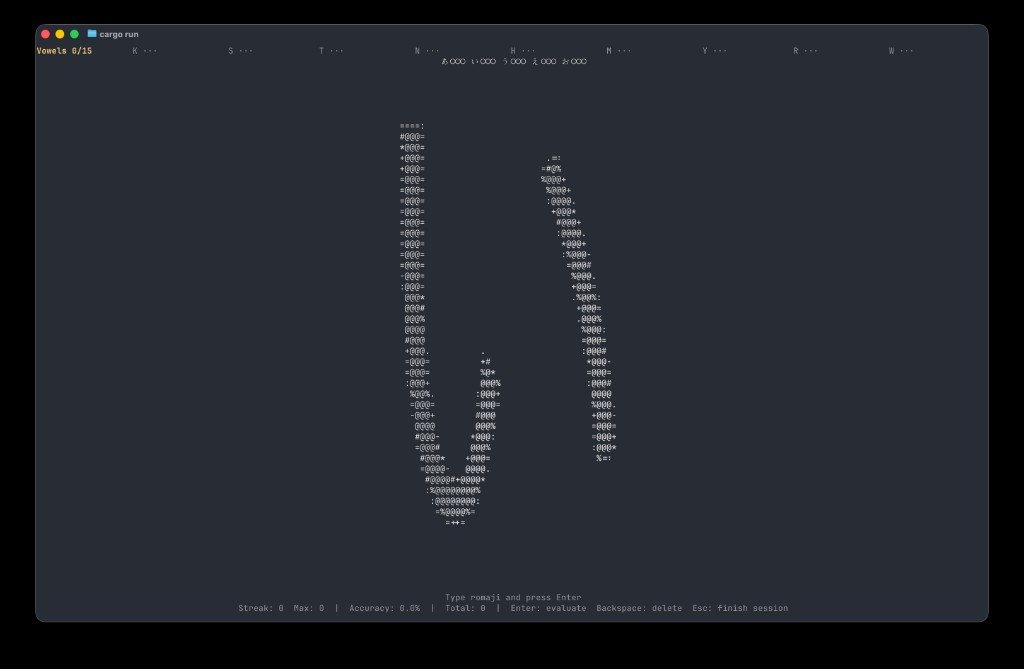
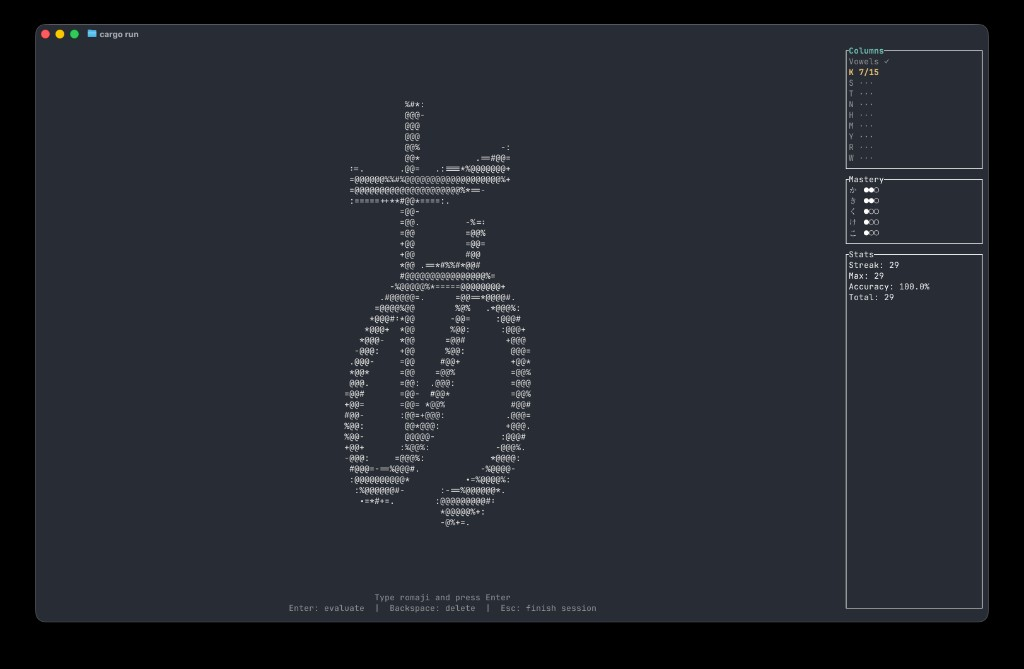
Move in-game stats to a right sidebar.
This centralizes progressive and session metrics in a vertical panel across all game modes, and updates docs/screenshot to reflect the new layout.

Made-with: Cursor

diff --git a/src/ui.rs b/src/ui.rs
@@ -2,7 +2,7 @@ use std::sync::OnceLock;
 
 use fontdue::Font;
 use ratatui::Frame;
-use ratatui::layout::{Alignment, Constraint, Direction, Layout};
+use ratatui::layout::{Alignment, Constraint, Direction, Layout, Rect};
 use ratatui::style::{Color, Modifier, Style};
 use ratatui::symbols::Marker;
 use ratatui::text::{Line, Span};
@@ -520,43 +520,169 @@ fn render_column_options(frame: &mut Frame, app: &App) {
     );
 }
 
+const STATS_SIDEBAR_WIDTH: u16 = 28;
+
+fn render_stats_sidebar(frame: &mut Frame, app: &App, area: Rect) {
+    match app.mode {
+        GameMode::Progressive => {
+            let parts = Layout::default()
+                .direction(Direction::Vertical)
+                .constraints([
+                    Constraint::Length(12),
+                    Constraint::Length(7),
+                    Constraint::Min(6),
+                ])
+                .split(area);
+
+            let column_lines: Vec<Line> = (0..COLUMN_LABELS.len())
+                .map(|column| {
+                    let total = (COLUMN_INDEX_GROUPS[column].len() * 3) as u32;
+                    let progress = app.column_progress(column);
+                    let text = if app.is_column_mastered(column) {
+                        format!("{} ✓", COLUMN_LABELS[column])
+                    } else if column == app.progressive_unlocked_columns.saturating_sub(1) {
+                        format!("{} {}/{}", COLUMN_LABELS[column], progress, total)
+                    } else if column < app.progressive_unlocked_columns {
+                        format!("{} ..", COLUMN_LABELS[column])
+                    } else {
+                        format!("{} ···", COLUMN_LABELS[column])
+                    };
+                    let style = if column == app.progressive_unlocked_columns.saturating_sub(1) {
+                        Style::default()
+                            .fg(Color::Yellow)
+                            .add_modifier(Modifier::BOLD)
+                    } else {
+                        Style::default().add_modifier(Modifier::DIM)
+                    };
+                    Line::from(Span::styled(text, style))
+                })
+                .collect();
+            frame.render_widget(
+                Paragraph::new(column_lines)
+                    .alignment(Alignment::Left)
+                    .block(
+                        Block::default()
+                            .borders(Borders::ALL)
+                            .title("Columns")
+                            .title_style(
+                                Style::default()
+                                    .fg(Color::LightCyan)
+                                    .add_modifier(Modifier::BOLD),
+                            ),
+                    ),
+                parts[0],
+            );
+
+            let active_column = app.progressive_unlocked_columns.saturating_sub(1);
+            let mastery_lines: Vec<Line> = COLUMN_INDEX_GROUPS[active_column]
+                .iter()
+                .map(|index| {
+                    let (kana, _) = HIRAGANA_BASIC_46[*index];
+                    let dots = (0..3)
+                        .map(|dot| {
+                            if dot < app.kana_correct_counts[*index].min(3) as usize {
+                                "●"
+                            } else {
+                                "○"
+                            }
+                        })
+                        .collect::<Vec<_>>()
+                        .join("");
+                    Line::from(format!("{kana} {dots}"))
+                })
+                .collect();
+            frame.render_widget(
+                Paragraph::new(mastery_lines)
+                    .alignment(Alignment::Left)
+                    .block(Block::default().borders(Borders::ALL).title("Mastery")),
+                parts[1],
+            );
+
+            let total = app.correct + app.incorrect;
+            let stats_text = vec![
+                Line::from(format!("Streak: {}", app.streak)),
+                Line::from(format!("Max: {}", app.max_streak)),
+                Line::from(format!("Accuracy: {:.1}%", app.accuracy())),
+                Line::from(format!("Total: {total}")),
+            ];
+            frame.render_widget(
+                Paragraph::new(stats_text)
+                    .alignment(Alignment::Left)
+                    .block(Block::default().borders(Borders::ALL).title("Stats")),
+                parts[2],
+            );
+        }
+        GameMode::BestOf(limit) => {
+            let answered = app.correct + app.incorrect;
+            let lines = vec![
+                Line::from(format!("Mode: Best of {limit}")),
+                Line::from(format!(
+                    "Time: {}",
+                    format_elapsed(app.session_elapsed_secs)
+                )),
+                Line::from(format!("Answered: {answered}/{limit}")),
+                Line::from(format!("Points: {}", app.best_of_points())),
+                Line::from(format!("Streak: {}", app.streak)),
+                Line::from(format!("Max: {}", app.max_streak)),
+                Line::from(format!("Accuracy: {:.1}%", app.accuracy())),
+            ];
+            frame.render_widget(
+                Paragraph::new(lines).alignment(Alignment::Left).block(
+                    Block::default()
+                        .borders(Borders::ALL)
+                        .title("Stats")
+                        .title_style(
+                            Style::default()
+                                .fg(Color::LightCyan)
+                                .add_modifier(Modifier::BOLD),
+                        ),
+                ),
+                area,
+            );
+        }
+        GameMode::Infinite => {
+            let lines = vec![
+                Line::from("Mode: Infinite"),
+                Line::from(format!("Correct: {}", app.correct)),
+                Line::from(format!("Incorrect: {}", app.incorrect)),
+                Line::from(format!("Streak: {}", app.streak)),
+                Line::from(format!("Max: {}", app.max_streak)),
+                Line::from(format!("Accuracy: {:.1}%", app.accuracy())),
+            ];
+            frame.render_widget(
+                Paragraph::new(lines).alignment(Alignment::Left).block(
+                    Block::default()
+                        .borders(Borders::ALL)
+                        .title("Stats")
+                        .title_style(
+                            Style::default()
+                                .fg(Color::LightCyan)
+                                .add_modifier(Modifier::BOLD),
+                        ),
+                ),
+                area,
+            );
+        }
+    }
+}
+
 fn render_game_screen(frame: &mut Frame, app: &mut App) {
     let showing_feedback = matches!(app.state, AppState::ShowingFeedback);
 
-    let layout = Layout::default()
+    let hsplit = Layout::default()
+        .direction(Direction::Horizontal)
+        .constraints([Constraint::Min(0), Constraint::Length(STATS_SIDEBAR_WIDTH)])
+        .split(frame.area());
+    let main = Layout::default()
         .direction(Direction::Vertical)
         .constraints([
-            Constraint::Length(1),
-            Constraint::Length(1),
             Constraint::Min(8),
             Constraint::Length(1),
             Constraint::Length(1),
             Constraint::Length(1),
         ])
-        .split(frame.area());
-
-    let top_bar = Layout::default()
-        .direction(Direction::Horizontal)
-        .constraints([
-            Constraint::Min(0),
-            Constraint::Length(14),
-            Constraint::Length(10),
-        ])
-        .split(layout[0]);
-
-    let score_text = match app.mode {
-        GameMode::Infinite => format!("{}/{}", app.correct, app.incorrect),
-        GameMode::BestOf(limit) => format!("{}/{}", app.correct + app.incorrect, limit),
-        GameMode::Progressive => format!("{}/{}", app.correct, app.incorrect),
-    };
-    if matches!(app.mode, GameMode::BestOf(_)) {
-        let timer = Paragraph::new(format!("t {}", format_elapsed(app.session_elapsed_secs)))
-            .alignment(Alignment::Right)
-            .style(Style::default().fg(Color::LightCyan));
-        frame.render_widget(timer, top_bar[1]);
-    }
-    let score = Paragraph::new(score_text).alignment(Alignment::Right);
-    frame.render_widget(score, top_bar[2]);
+        .split(hsplit[0]);
+    render_stats_sidebar(frame, app, hsplit[1]);
 
     let glyph_row = Layout::default()
         .direction(Direction::Horizontal)
@@ -565,7 +691,7 @@ fn render_game_screen(frame: &mut Frame, app: &mut App) {
             Constraint::Percentage(30),
             Constraint::Percentage(35),
         ])
-        .split(layout[2]);
+        .split(main[0]);
 
     let glyph_col = Layout::default()
         .direction(Direction::Vertical)
@@ -586,7 +712,7 @@ fn render_game_screen(frame: &mut Frame, app: &mut App) {
     }
 
     let answer = Paragraph::new(app.input.as_str()).alignment(Alignment::Center);
-    frame.render_widget(answer, layout[3]);
+    frame.render_widget(answer, main[1]);
 
     let feedback_color = match app.last_correct {
         Some(true) => Color::Green,
@@ -607,96 +733,35 @@ fn render_game_screen(frame: &mut Frame, app: &mut App) {
     let feedback = Paragraph::new(feedback_text)
         .alignment(Alignment::Center)
         .style(feedback_style);
-    frame.render_widget(feedback, layout[4]);
+    frame.render_widget(feedback, main[2]);
 
     let controls_text = if showing_feedback {
-        if matches!(app.mode, GameMode::BestOf(_)) {
-            format!(
-                "Points: {}  |  Enter/Space: next  |  Esc: finish session",
-                app.best_of_points()
-            )
-        } else {
-            "Enter/Space: next  |  Esc: finish session".to_string()
-        }
-    } else if matches!(app.mode, GameMode::BestOf(_)) {
-        format!(
-            "Points: {}  |  Enter: evaluate  |  Backspace: delete  |  Esc: finish session",
-            app.best_of_points()
-        )
+        "Enter/Space: next  |  Esc: finish session"
     } else {
-        "Enter: evaluate  |  Backspace: delete  |  Esc: finish session".to_string()
+        "Enter: evaluate  |  Backspace: delete  |  Esc: finish session"
     };
-    let controls = Paragraph::new(controls_text.as_str())
+    let controls = Paragraph::new(controls_text)
         .alignment(Alignment::Center)
         .style(Style::default().add_modifier(Modifier::DIM));
-    frame.render_widget(controls, layout[5]);
+    frame.render_widget(controls, main[3]);
 }
 
 fn render_progressive_game_screen(frame: &mut Frame, app: &mut App) {
     let showing_feedback = matches!(app.state, AppState::ShowingFeedback);
-    let layout = Layout::default()
+    let hsplit = Layout::default()
+        .direction(Direction::Horizontal)
+        .constraints([Constraint::Min(0), Constraint::Length(STATS_SIDEBAR_WIDTH)])
+        .split(frame.area());
+    let main = Layout::default()
         .direction(Direction::Vertical)
         .constraints([
-            Constraint::Length(1),
-            Constraint::Length(1),
             Constraint::Min(6),
             Constraint::Length(1),
             Constraint::Length(1),
             Constraint::Length(1),
         ])
-        .split(frame.area());
-
-    let progress_chunks = Layout::default()
-        .direction(Direction::Horizontal)
-        .constraints(vec![
-            Constraint::Ratio(1, COLUMN_LABELS.len() as u32);
-            COLUMN_LABELS.len()
-        ])
-        .split(layout[0]);
-    for (column, area) in progress_chunks.iter().enumerate() {
-        let total = (COLUMN_INDEX_GROUPS[column].len() * 3) as u32;
-        let progress = app.column_progress(column);
-        let text = if app.is_column_mastered(column) {
-            format!("{} ✓", COLUMN_LABELS[column])
-        } else if column == app.progressive_unlocked_columns.saturating_sub(1) {
-            format!("{} {}/{}", COLUMN_LABELS[column], progress, total)
-        } else if column < app.progressive_unlocked_columns {
-            format!("{} ..", COLUMN_LABELS[column])
-        } else {
-            format!("{} ···", COLUMN_LABELS[column])
-        };
-        let style = if column == app.progressive_unlocked_columns.saturating_sub(1) {
-            Style::default()
-                .fg(Color::Yellow)
-                .add_modifier(Modifier::BOLD)
-        } else {
-            Style::default().add_modifier(Modifier::DIM)
-        };
-        frame.render_widget(Paragraph::new(text).style(style), *area);
-    }
-
-    let active_column = app.progressive_unlocked_columns.saturating_sub(1);
-    let mastery_line = COLUMN_INDEX_GROUPS[active_column]
-        .iter()
-        .map(|index| {
-            let (kana, _) = HIRAGANA_BASIC_46[*index];
-            let dots = (0..3)
-                .map(|dot| {
-                    if dot < app.kana_correct_counts[*index].min(3) as usize {
-                        '●'
-                    } else {
-                        '○'
-                    }
-                })
-                .collect::<String>();
-            format!("{kana}{dots}")
-        })
-        .collect::<Vec<_>>()
-        .join(" ");
-    frame.render_widget(
-        Paragraph::new(mastery_line).alignment(Alignment::Center),
-        layout[1],
-    );
+        .split(hsplit[0]);
+    render_stats_sidebar(frame, app, hsplit[1]);
 
     let glyph_row = Layout::default()
         .direction(Direction::Horizontal)
@@ -705,7 +770,7 @@ fn render_progressive_game_screen(frame: &mut Frame, app: &mut App) {
             Constraint::Percentage(30),
             Constraint::Percentage(35),
         ])
-        .split(layout[2]);
+        .split(main[0]);
     let glyph_col = Layout::default()
         .direction(Direction::Vertical)
         .constraints([
@@ -725,7 +790,7 @@ fn render_progressive_game_screen(frame: &mut Frame, app: &mut App) {
 
     frame.render_widget(
         Paragraph::new(app.input.as_str()).alignment(Alignment::Center),
-        layout[3],
+        main[1],
     );
 
     let feedback_color = match app.last_correct {
@@ -748,32 +813,19 @@ fn render_progressive_game_screen(frame: &mut Frame, app: &mut App) {
         Paragraph::new(feedback_text)
             .alignment(Alignment::Center)
             .style(feedback_style),
-        layout[4],
+        main[2],
     );
 
-    let total = app.correct + app.incorrect;
-    let status_text = if showing_feedback {
-        format!(
-            "Streak: {}  Max: {}  |  Accuracy: {:.1}%  |  Total: {}  |  Enter/Space: next  Esc: finish session",
-            app.streak,
-            app.max_streak,
-            app.accuracy(),
-            total
-        )
+    let controls_text = if showing_feedback {
+        "Enter/Space: next  |  Esc: finish session"
     } else {
-        format!(
-            "Streak: {}  Max: {}  |  Accuracy: {:.1}%  |  Total: {}  |  Enter: evaluate  Backspace: delete  Esc: finish session",
-            app.streak,
-            app.max_streak,
-            app.accuracy(),
-            total
-        )
+        "Enter: evaluate  |  Backspace: delete  |  Esc: finish session"
     };
     frame.render_widget(
-        Paragraph::new(status_text)
+        Paragraph::new(controls_text)
             .alignment(Alignment::Center)
             .style(Style::default().add_modifier(Modifier::DIM)),
-        layout[5],
+        main[3],
     );
 }
 

diff --git a/README.md b/README.md
@@ -30,7 +30,7 @@ Best of 20 is a timed run. Your final score uses:
 
 `points = (correct * 100) - (incorrect * 25) - elapsed_seconds`
 
-The in-session UI shows live timer and points while you play.
+The in-session UI shows live timer and points in a right-side vertical stats panel while you play.
 
 ## 🏆 Persistent scoreboard
 
